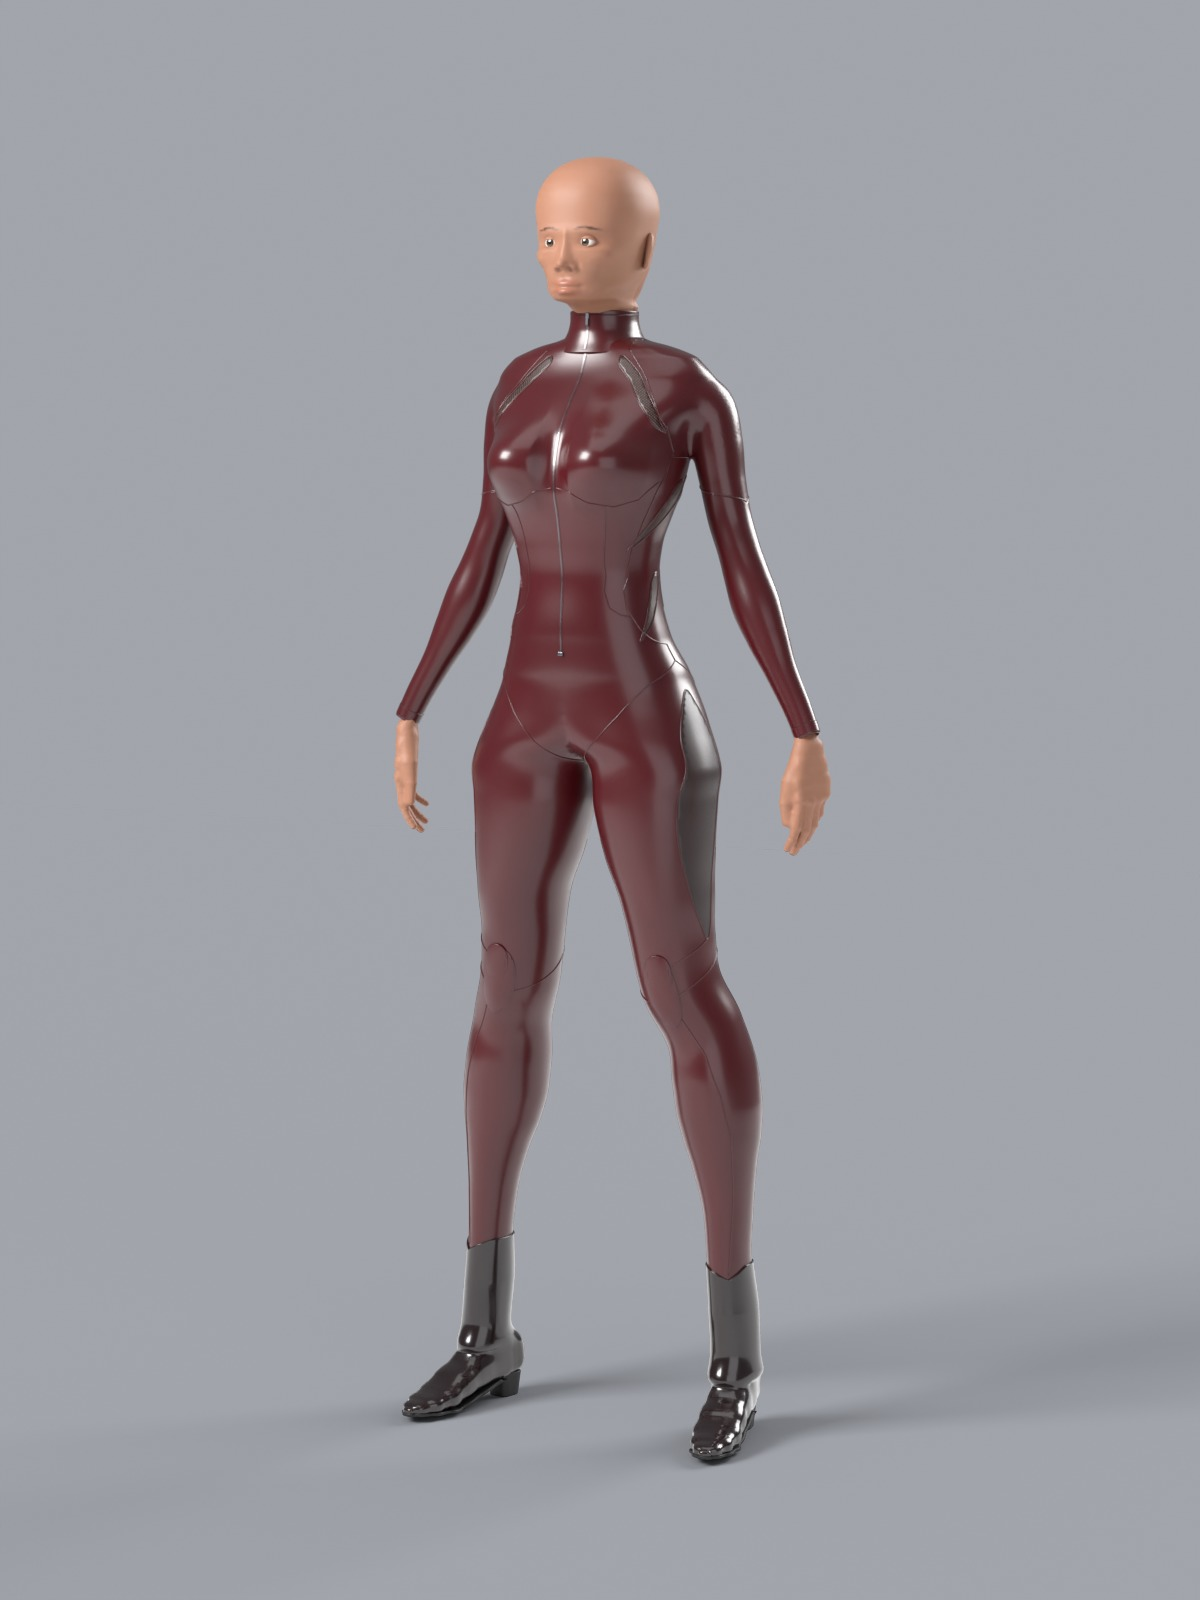
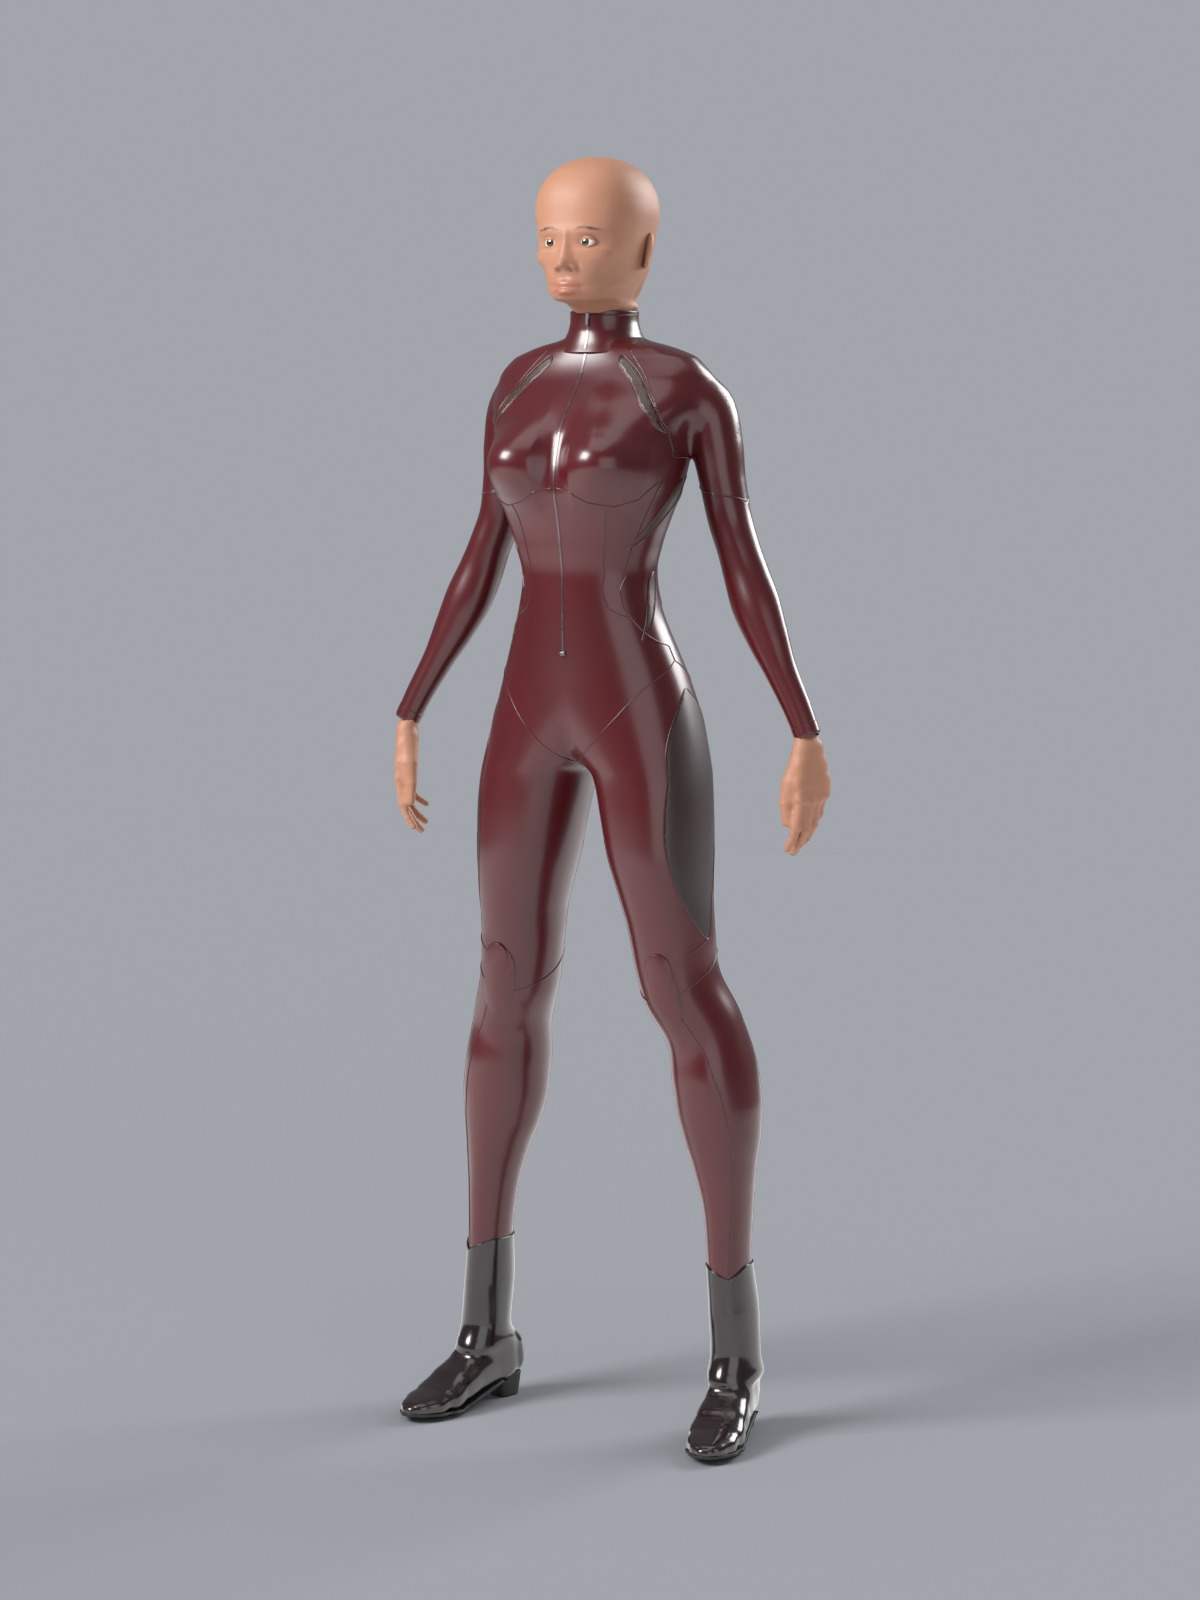
art(#33): Beatrice stage 4 renders -- the hip pictures (pure form, against the drawings, before/after), three pelvis steps, the glossy set, outline measurements

diff --git a/art/characters/Beatrice/previews/index.html b/art/characters/Beatrice/previews/index.html
@@ -21,12 +21,28 @@
 </head>
 <body>
 <main>
-  <h1>Beatrice — body, suit, hands, boots (stage 3: second correction round)</h1>
+  <h1>Beatrice — body, suit, hands, boots (stage 4: the pelvis)</h1>
   <p>Built from Python alone on the shared character kit (<code>charkit/bodysuit.py</code>, Blender 4.5, Cycles) from the tables in
      <code>scripts/beatrice.py</code>, fitted to three drawings: front, side and back. The head is a bald placeholder for the
      face-and-hair stage. Character only, no props. This round answers <code>review_stage2.md</code>: new hands, the shoulder and
      arm as one surface, a sleek ankle boot, clean teardrop inserts and a dark-grey thigh panel, the S-curve of the back, a fine zip,
-     layered knee pads, thin cuffs, seams that end on other edges. See <code>PROVENANCE.md</code>.</p>
+     layered knee pads, thin cuffs, seams that end on other edges. See <code>PROVENANCE.md</code>.
+     <b>Stage 4</b> answers <code>review_stage3.md</code> for the pelvis only (waist, hips, seat, upper thighs); everything else is
+     unchanged, and the close-ups further down are stage 3's.</p>
+
+  <h2>The pelvis (stage 4)</h2>
+  <p>The corner at the crotch came from the table: the leg rows held the outer edge upright up to the crotch row and the hand-set hip
+     rows ran it in a straight line to the waist, two straight pieces meeting in one row. From above the knee to under the waist the
+     trunk is now authored as its outlines (the front view's outer edge and the gap between the legs, the side view's front and back),
+     each a smooth curve of height, at the owner's "one step slimmer" size, the waist pinched (hip / waist 1.795, the concept's 1.794).
+     The weld at the centre line follows each section's true crossing and the V there is filleted, so no crease or stepped seam runs
+     down the front. Measured on the built mesh, the outline's worst direction change from 0.68 to 1.12 m is now 2.6 deg/cm in front
+     and behind (stage 3: 12.7 at the crotch), 3.2 / 4.4 at the side's front / back (6.6 / 7.7), 4.6 / 4.9 on the diagonals (8.6 / 8.2).</p>
+  <figure><img src="hips.jpg" alt="The pelvis in matte grey, five views"><figcaption>Pure form, matte grey, no seams, panels or arms: front, three-quarter front, side, three-quarter back, back</figcaption></figure>
+  <div class="grid">
+    <figure><img src="hips_vs_drawings.jpg" alt="The pelvis against the drawings"><figcaption>Against the drawings (orange), the concept beside the front</figcaption></figure>
+    <figure><img src="hips_before_after.jpg" alt="Outlines before and after"><figcaption>Outlines: blue stage 3, orange now</figcaption></figure>
+  </div>
 
   <h2>Hands (the reviewer's first item)</h2>
   <p>One closed surface per hand (<code>charkit/parts.py::bare_hand</code>): a palm narrow at the wrist and widest at the knuckles, a
@@ -52,7 +68,8 @@
 
   <h2>The three drawings vs the model</h2>
   <p id="scores">Silhouette overlap (IoU), default build, per height band (above the waist / waist to knee / knees down):
-     front 0.946 / 0.871 / 0.908 (whole 0.903); side 0.918 / 0.915 / 0.856; back 0.911 / 0.848 / 0.813. The waist-to-knee band is narrower than the drawings on purpose (the owner's slimmer hips). Knees down: the front and
+     front 0.946 / 0.852 / 0.908 (whole 0.895); side 0.918 / 0.897 / 0.856 (0.893); back 0.912 / 0.833 / 0.813 (0.853).
+     Above the waist and knees down unchanged from stage 3; the waist-to-knee band fell (stage 3: 0.871 / 0.915 / 0.848) with the slimmer hips. The waist-to-knee band is narrower than the drawings on purpose (the owner's slimmer hips). Knees down: the front and
      back drawings place the lower legs apart and draw a high heel; the build splits the difference and wears the low heel asked for.</p>
   <div class="grid">
     <figure><img src="sheet_vs_reference.png" alt="Front drawing above the model"><figcaption>Front: drawing above, model below</figcaption></figure>
@@ -65,10 +82,10 @@
     <figure><img src="back_overlay.png" alt="Back overlay"><figcaption>Back overlay</figcaption></figure>
   </div>
 
-  <h2>Hip shapes, side by side (stage 2, unchanged)</h2>
-  <p>Three shapes built from table values only, matte grey, front and side, waist to knee, the drawing's outline in orange. The owner
-     chose <code>default</code>.</p>
-  <figure><img src="shape_vs_concept.jpg" alt="Three hip shapes in matte grey, front and side, with the drawing outlines"><figcaption>one step slimmer · default · sheet_hips (the drawings)</figcaption></figure>
+  <h2>Hip shapes, side by side (stage 4)</h2>
+  <p>Three steps of the new pelvis built from table values only (<code>beatrice.pelvis(k)</code>: the hip and seat 7 % either side),
+     matte grey, front and side, waist to knee, the drawing's outline in orange.</p>
+  <figure><img src="shape_vs_concept.jpg" alt="Three hip shapes in matte grey, front and side, with the drawing outlines"><figcaption>one step slimmer · default (stage 4) · one step fuller</figcaption></figure>
 
   <h2>Turnaround</h2>
   <figure><img src="turnaround.png" alt="Front, side, back, three-quarter"><figcaption>Orthographic front, side, back, three-quarter</figcaption></figure>
